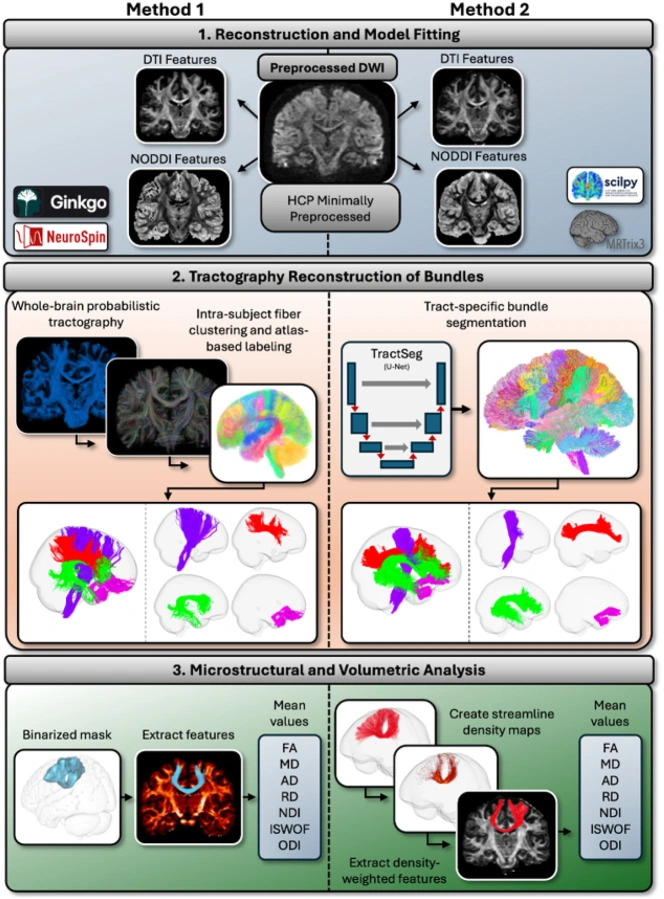
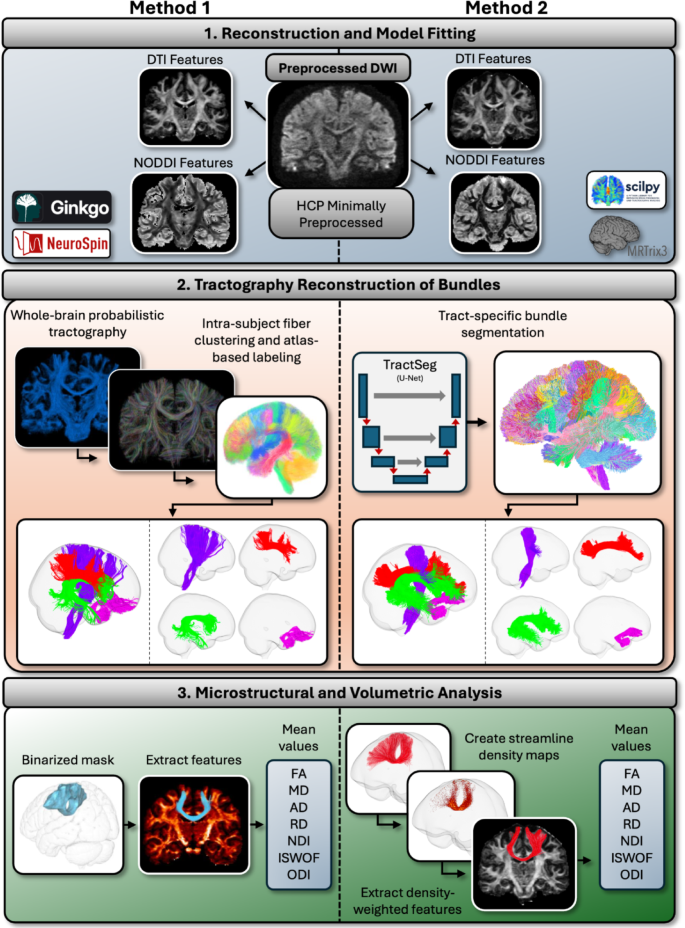
Publish approved research and resource updates

diff --git a/README.md b/README.md
@@ -1,6 +1,6 @@
 # Microstructure & Connectivity Lab
 
-A static lab website built for GitHub Pages. The review version includes 64 selected first- or last-author works (60 published works and 4 preprints), individual paper summaries and illustrations, scholarly metadata, grouped software and data links, four news stories, and an interactive streamline viewer. The site is published at https://www.microstructure-connectivity-lab.com/ through GitHub Pages; the original Google Site is preserved.
+A static lab website built for GitHub Pages. The review version includes 65 selected first- or last-author works (63 published works and 2 preprints), individual paper summaries and illustrations, scholarly metadata, grouped software and data links, five news stories, and an interactive streamline viewer. The site is published at https://www.microstructure-connectivity-lab.com/ through GitHub Pages; the original Google Site is preserved.
 
 ## Local preview
 
@@ -94,7 +94,7 @@ The expanded viewer adds 36 TractSeg bundles through `pathway-atlas.json`: 72,00
 
 The Nature figure is attributed under CC BY 4.0. Other scientific assets retain their original rights; this repository does not impose a new license on them.
 
-Every record has a direct article link and a representative image: 62 scientific figures and two clearly labeled previews for text-only articles. Fifty-seven records link to public PMC full text. Twenty-one PDF links come from authoritative publisher/repository pages; automated download checks can encounter bot challenges, so the full-text page is retained as an alternative. Attribution and license information are recorded in `docs/publication-figures.json`.
+Every record links to its publisher or preprint. Sixty-four entries have an illustration; the 2020 diffusion MRI conference chapter links to the publisher without a figure. Fifty-seven records link to public PMC full text. Twenty-one PDF links come from authoritative publisher/repository pages; automated download checks can encounter bot challenges, so the full-text page is retained as an alternative. Attribution and license information are recorded in `docs/publication-figures.json`.
 
 ## Checks and editorial review
 
